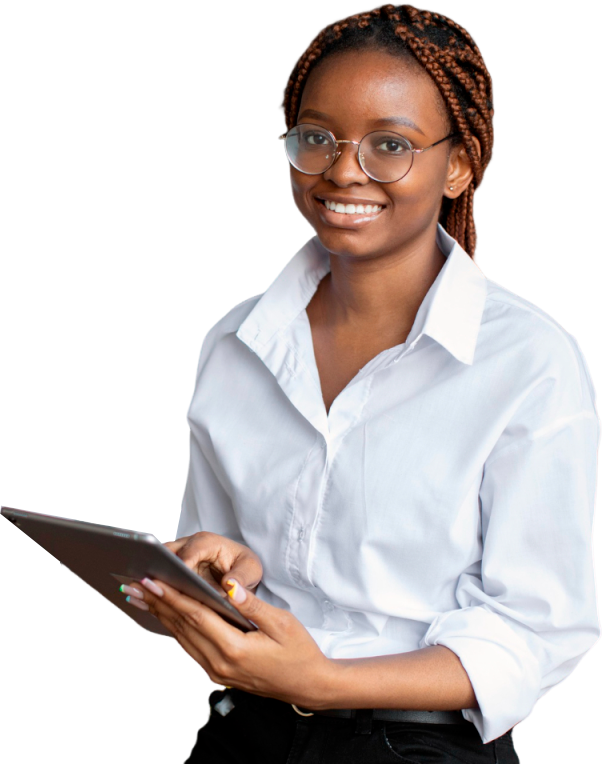
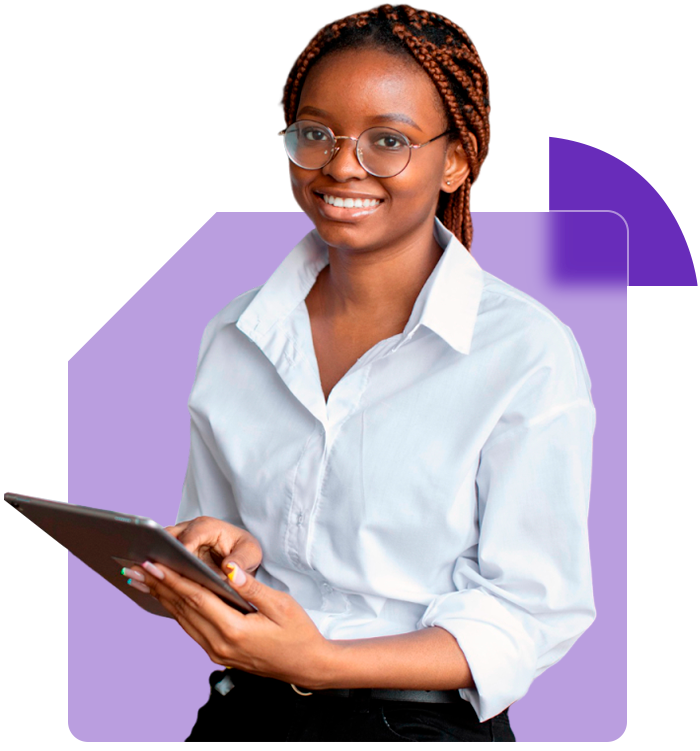
...

diff --git a/src/components/benefits/benefits.css b/src/components/benefits/benefits.css
@@ -71,17 +71,8 @@
   }
 }
 
-.benefits figure {
-  background-color: var(--lilac);
-  width: 450px;
-  padding-top: 30px;
-  border-radius: 50px;
-  overflow: hidden;
-  border: 1px solid var(--white);
-}
-
 .benefits figure img {
-  width: 350px;
+  width: 500px;
   height: auto;
 }
 
@@ -103,8 +94,7 @@
 
   .benefits figure {
     width: 100%;
-    max-width: 550px;
-    padding: 20px 20px 0 20px;
+    max-width: 650px;
   }
 
   .benefits figure img {
@@ -121,10 +111,6 @@
 }
 
 @media (width < 360px) {
-  .benefits figure {
-    border-radius: 30px;
-  }
-
   .benefits .box-benefits .info .box {
     flex-direction: column;
     gap: 10px;
